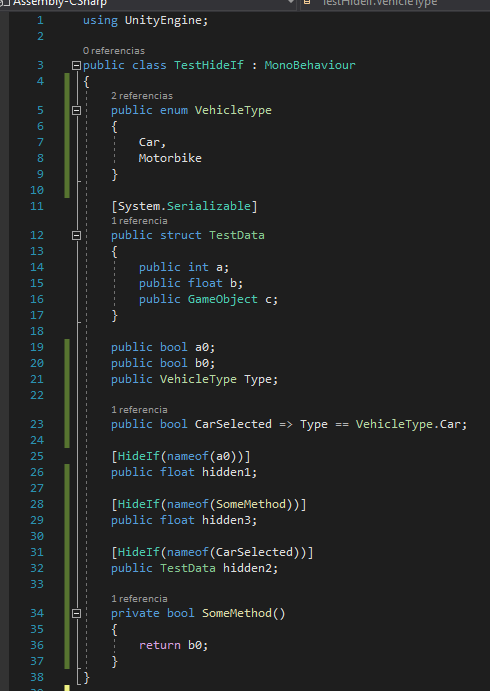
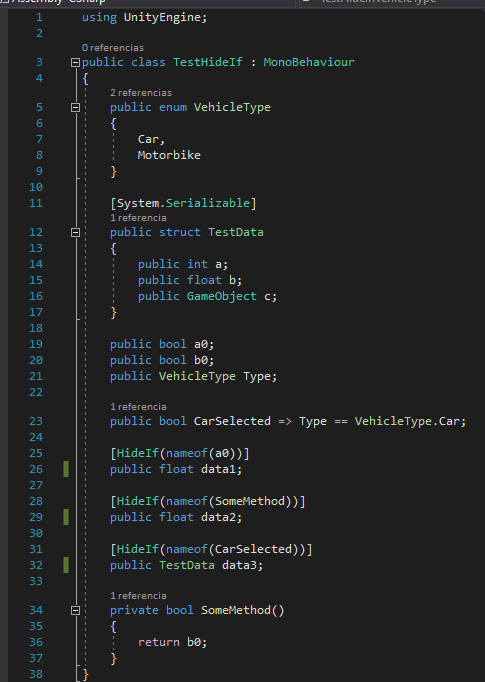
Added ShowIf, updated HideIfImages

diff --git a/Assets/Scripts/HideIf/HideIfAttribute.cs b/Assets/Scripts/HideIf/HideIfAttribute.cs
@@ -1,19 +1,10 @@
-using UnityEngine;
-
-public class HideIfAttribute : PropertyAttribute
+public class HideIfAttribute : ShowIfAttribute
 {
-	public string MemberName { get; private set; }
-
-	public bool Invert { get; private set; }
-
-	public HideIfAttribute(string fieldName) : this(fieldName, false)
+	public HideIfAttribute(string fieldName) : base(fieldName, true)
 	{
-
 	}
 
-	public HideIfAttribute(string fieldName, bool invert)
+	public HideIfAttribute(string fieldName, bool invert) : base(fieldName, !invert)
 	{
-		MemberName = fieldName;
-		Invert = invert;
 	}
 }

diff --git a/Assets/Scripts/HideIf/Editor/ShowIfDrawer.cs b/Assets/Scripts/HideIf/Editor/ShowIfDrawer.cs
@@ -4,10 +4,10 @@ using System.Reflection;
 using UnityEditor;
 using UnityEngine;
 
-[CustomPropertyDrawer(typeof(HideIfAttribute))]
-public class HideIfDrawer : PropertyDrawer
+[CustomPropertyDrawer(typeof(ShowIfAttribute), true)]
+public class ShowIfDrawer : PropertyDrawer
 {
-	public HideIfAttribute TargetAttribute => attribute as HideIfAttribute;
+	public ShowIfAttribute TargetAttribute => attribute as ShowIfAttribute;
 
 	public override void OnGUI(Rect position, SerializedProperty property, GUIContent label)
 	{

diff --git a/Assets/Scripts/Examples/TestHideIf.cs b/Assets/Scripts/Examples/TestHideIf.cs
@@ -23,13 +23,13 @@ public class TestHideIf : MonoBehaviour
 	public bool CarSelected => Type == VehicleType.Car;
 
 	[HideIf(nameof(a0))]
-	public float hidden1;
+	public float data1;
 
 	[HideIf(nameof(SomeMethod))]
-	public float hidden3;
+	public float data2;
 
 	[HideIf(nameof(CarSelected))]
-	public TestData hidden2;
+	public TestData data3;
 
 	private bool SomeMethod() 
 	{

diff --git a/Assets/Scripts/HideIf/ShowIfAttribute.cs b/Assets/Scripts/HideIf/ShowIfAttribute.cs
@@ -1,0 +1,19 @@
+using UnityEngine;
+
+public class ShowIfAttribute : PropertyAttribute
+{
+	public string MemberName { get; private set; }
+
+	public bool Invert { get; private set; }
+
+	public ShowIfAttribute(string fieldName) : this(fieldName, false)
+	{
+
+	}
+
+	public ShowIfAttribute(string fieldName, bool invert)
+	{
+		MemberName = fieldName;
+		Invert = invert;
+	}
+}

diff --git a/README.md b/README.md
@@ -40,6 +40,7 @@ If the field is null, the field will be populated with the first result of FindO
 # Planned Attributes
 - [x] **ReadOnly**
 - [x] **RequiredField**
+- [x] **ShowIf**
 - [x] **HideIf(string memberName, bool invert):** Hide field if bool result of memberName is true
 - [x] **HelpBox(string message, HelpBoxMessageType messageType)**
 - [x] **OnValueChanged(string memberName):** Call function when value is changed (Can be useful for validation)
@@ -48,7 +49,6 @@ If the field is null, the field will be populated with the first result of FindO
 - [x] **DefaultGetComponentInChildren**
 - [x] **DefaultGetComponentInParent**
 - [x] **DefaultFindObject**
-- [ ] **ShowIf:** The oposite version of HideIf
 - [ ] **EnableIf:** ReadOnly when boolean is false
 - [ ] **DisableIf:** ReadOnly when boolean is true
 - [ ] **SceneEnum:** Easy way to assign a scene name to a string (Using dropdown)
